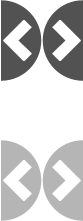
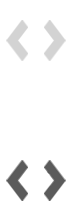
CHANGED SOME styles managed that white box for read marker changed the page loading thingy

diff --git a/css/anythingslider.css b/css/anythingslider.css
@@ -134,7 +134,7 @@ div.anythingSlider .arrow a {
 	width: 42px;
 	text-align: center;
 	outline: 0;
-	opacity:0.5;
+	opacity:0.95;
 	background: url(../img/feedbutton.png) no-repeat;
 }
 /* hide text, target the span so IE7 doesn't text-indent the link */
@@ -145,7 +145,7 @@ div.anythingSlider .back a { background-position: left top; }
 div.anythingSlider .back a:hover, div.anythingSlider .back a.hover { background-position: left -140px; }
 div.anythingSlider .back.disabled { display: none; } /* disabled arrows, hide or reduce opacity: opacity: .5; filter: alpha(opacity=50); */
 /* forward arrow */
-div.anythingSlider .forward { margin-right: -1px; }
+div.anythingSlider .forward { margin-right: -11px; }
 div.anythingSlider .forward a { background-position: -42px top; }
 div.anythingSlider .forward a:hover, div.anythingSlider .forward a.hover { background-position: -42px -140px;}
 div.anythingSlider .forward.disabled { display: none; } /* disabled arrows, hide or reduce opacity: opacity: .5; filter: alpha(opacity=50); */

diff --git a/js/FeedViewer.js b/js/FeedViewer.js
@@ -277,11 +277,16 @@ var FeedViewer = {
 				var imagesource=getDomain(list[i])+"/favicon.ico";
 				var randomnumber=Math.floor(Math.random()*5);
 				if(GoogleReader.hasAuth() == true)
-					var countstr = "<div class='readunread'>"+unreadCount+"</div></div></li>";
+					{
+						var countstr = "<div class='readunread'>"+unreadCount+"</div><div class='readmarker'></div></div></li>";
+					}
 				else
-					var countstr = "";
+					{
+						var countstr = "";
+					}
+					
 				$("#myfeedsdiv .myfeedlist").append("<li><div class='feedl color"+randomnumber+"' rel = " +list[i] +" >"
-					+"<div class='unsub'></div>"+"<div class='readmarker'></div>"+"<img class='faviconimg' src='"+imagesource+"'/><p>"+title.substring(0,25)+"</p>"+countstr);
+					+"<div class='unsub'></div>"+"<img class='faviconimg' src='"+imagesource+"'/><p>"+title.substring(0,25)+"</p>"+countstr);
 			}
 			/* Put the default imaage if the favicon image is not found*/
 			$('.faviconimg').error(function() {

diff --git a/css/styles.css b/css/styles.css
@@ -65,7 +65,7 @@ html{
 }
 #loadercontainer{
 	width:84.33%;
-	margin:160px 175px;
+	margin:120px 175px;
 }
 #loadercontainer h1{
 	padding-left:15px;
@@ -658,7 +658,7 @@ background-color:#06F;
     text-align:center;
 }
 
-.myfeedlist li :nth-child(3){
+.myfeedlist li :nth-child(2){
     float:left;
     border-radius:5px;
     height:20px;
@@ -904,7 +904,6 @@ background-image: -webkit-gradient(radial, center top, 0, center top, 100, color
 .textSlide{
     overflow:hidden;
     color:#000;
-	width:890px;
     font-size: 15px;
     line-height: 160%;
     font-weight:100%;
